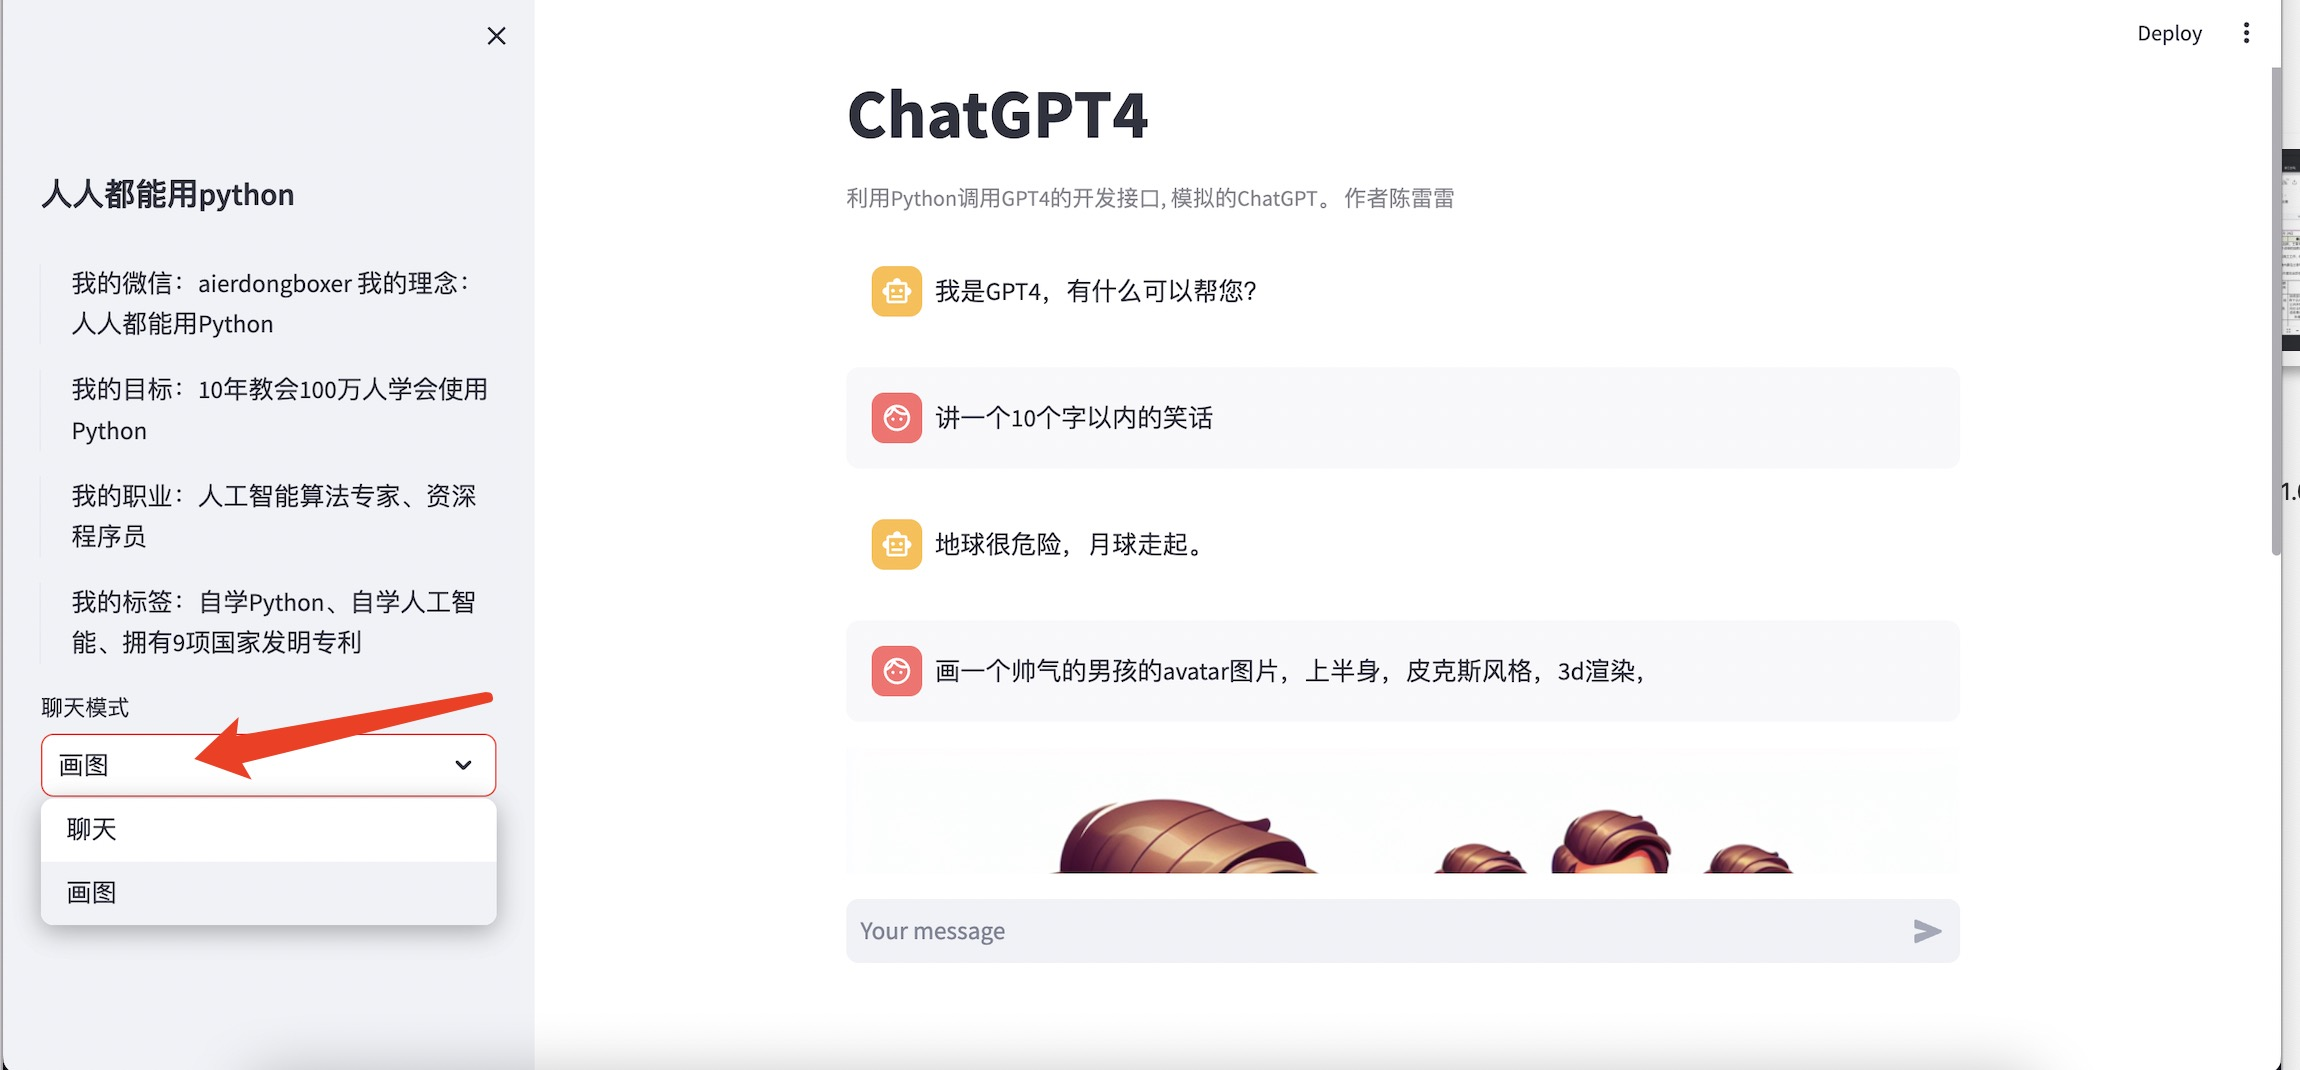
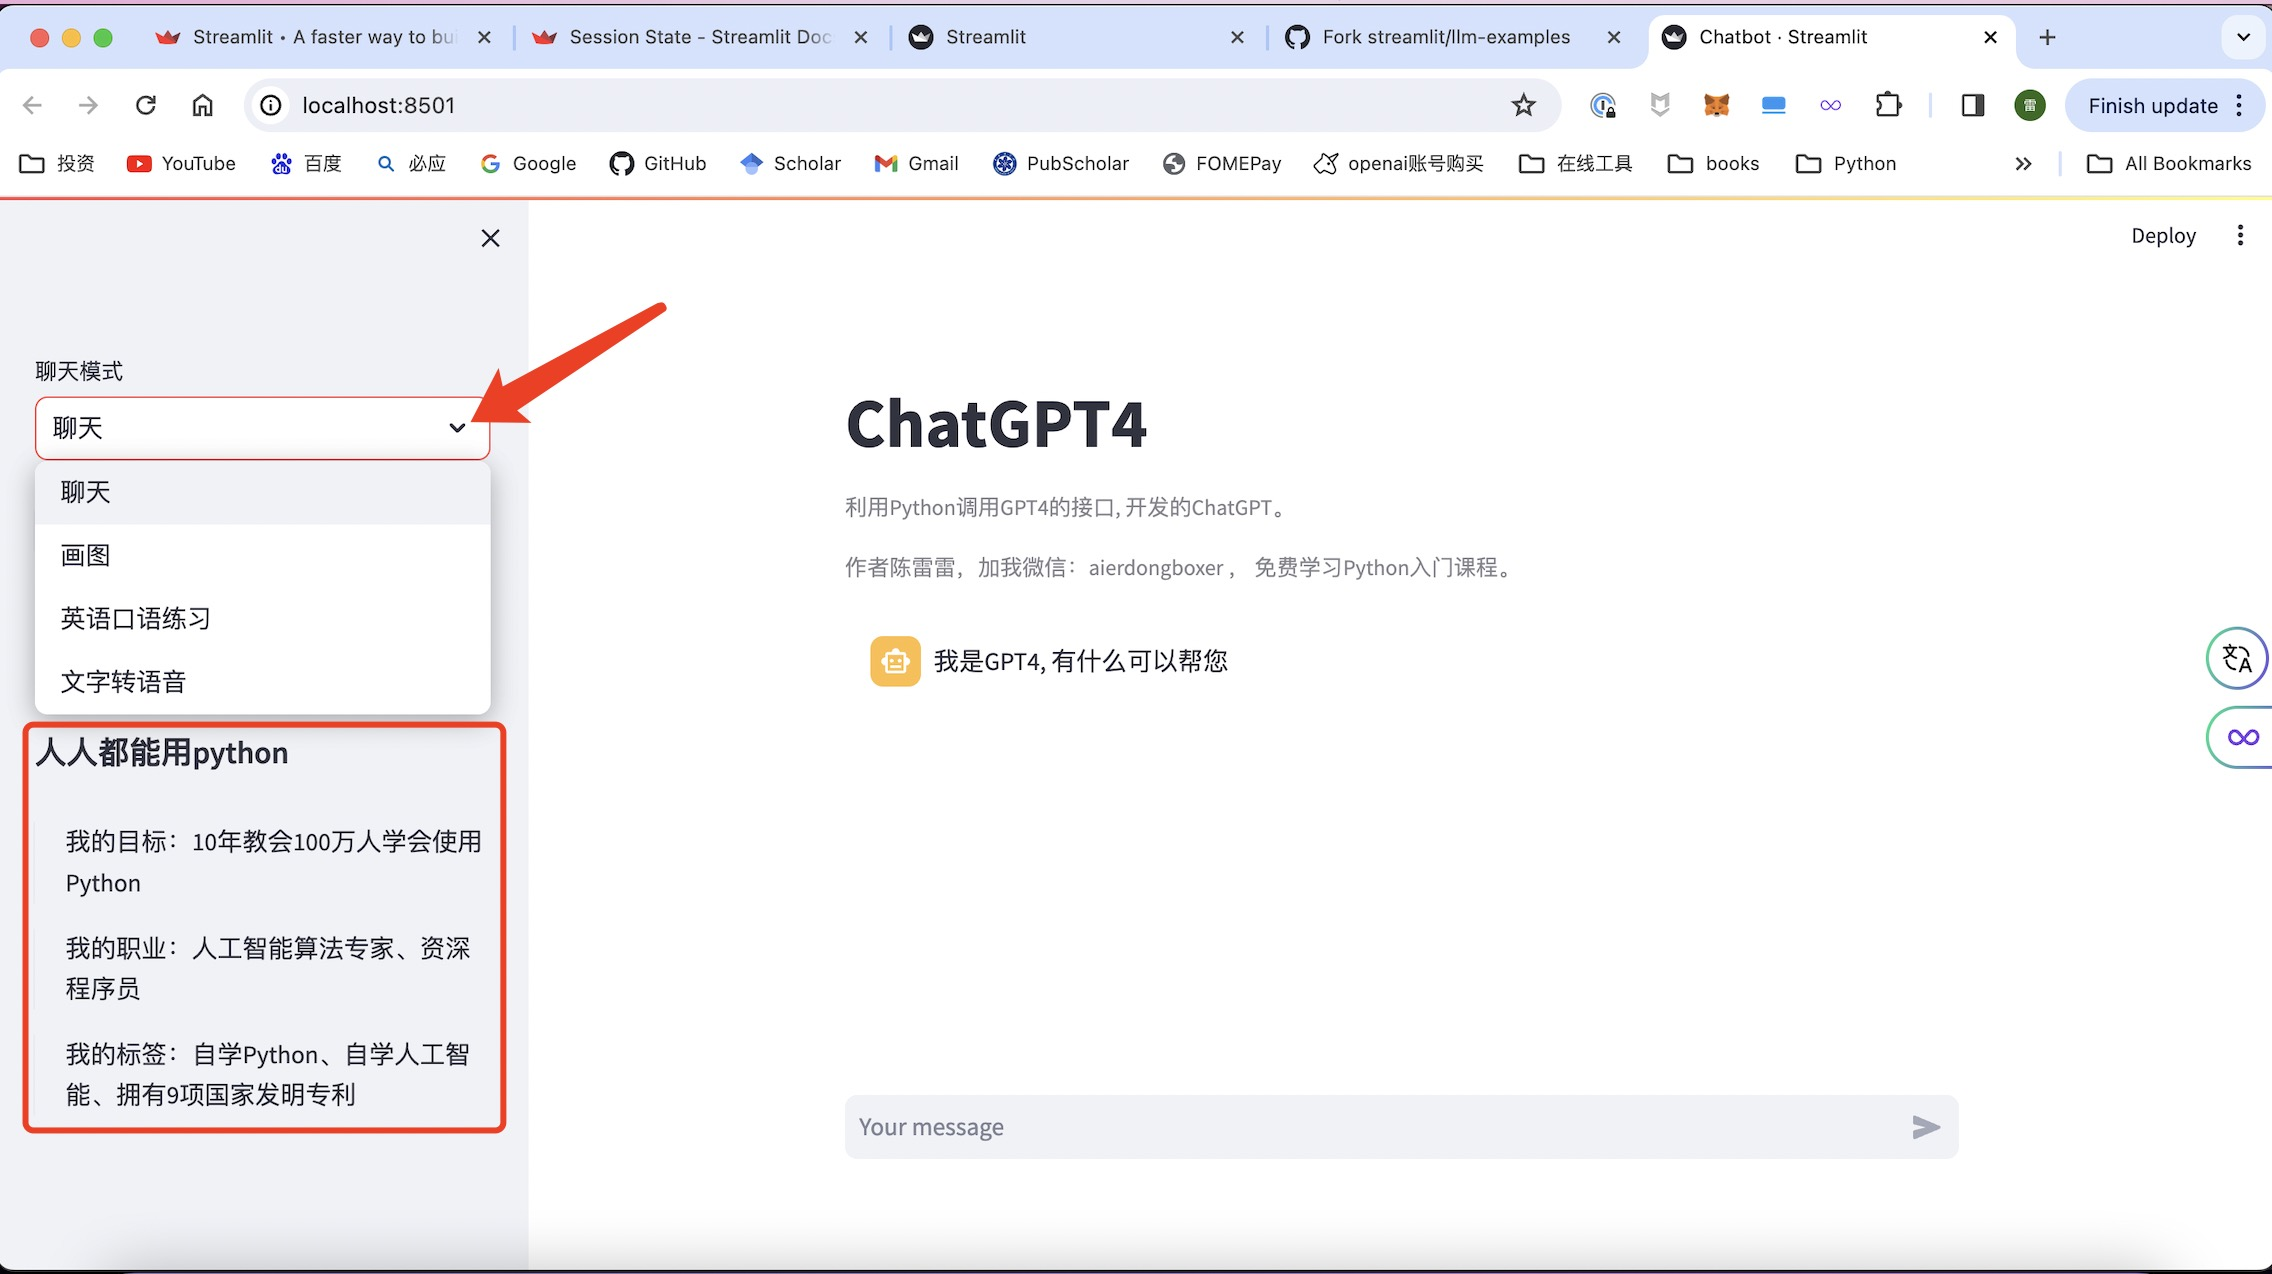
Add instructions for english_practice and text_to_speech and some images

diff --git a/utils/streamlit_app.py b/utils/streamlit_app.py
@@ -36,7 +36,10 @@ class StreamlitApp:
     def set_title(self):
         self.st.title("ChatGPT4")
         self.st.caption(
-            "利用Python调用GPT4的接口, 开发的ChatGPT。 \n\n作者陈雷雷，加我微信：aierdongboxer ， 免费学习Python入门课程。"
+            (
+                "利用Python调用GPT4的接口, 开发的ChatGPT。 \n\n"
+                "作者陈雷雷，加我微信：aierdongboxer ， 免费学习《零基础python入门课程》。"
+            )
         )
         return None
 
@@ -56,7 +59,6 @@ class StreamlitApp:
 
             if self.st.session_state.mode == "文字转语音":
                 self.options_for_english_practice()
-                print("文字转语音")
 
             self.st.write(introduction)
 

diff --git a/README.md b/README.md
@@ -26,10 +26,28 @@ pip install -r requirements.txt
 streamlit run Chatbot.py
 ```
 ## 使用方法
-![](assets/运行后的效果图.jpg)
+<img src="assets/运行后的效果图.jpg" alt="运行后的效果图" style="zoom:30%;" />
+
 ### 聊天模式
 页面左侧有聊天模式，选择聊天那么就是和GPT4进行纯文字聊天，选择画图则是使用DALLE模型进行画图
 ### 聊天
 在页面下方的输入框，输入你想和GPT4聊天的话，按回车按钮，就可以和GPT4聊天了。
 ### 画图
 在页面下方的输入框，输入你想生成的图片的描述，按回车按钮，就可以生成图片了。
+### 英语口语练习
+在页面下方的输入框，输入你想要练习的英文，按回车按钮，就会直接翻译成英文，并且会转换成语音。
+### 文字转语音
+在页面下方的输入框，输入文字各种语言都可以，按回车按钮，就会直转换成语音。
+
+## 我的微信
+扫码加我微信，一起交流学习python和人工智能
+<img src="assets/微信.jpg" alt="微信" style="zoom:20%;" />
+
+## 我的视频号
+扫码加我视频号，可以免费学习《python零基础入门课程》，并提供免费答疑。
+<img src="assets/视频号.jpg" alt="视频号" style="zoom:20%;" />
+
+## 买一杯咖啡
+如果觉得这个项目帮助到了你，你可以帮作者买一杯咖啡表示鼓励。
+<img src="assets/微信收款码.jpg" alt="微信收款码" style="zoom:20%;" />
+<img src="assets/支付宝收款码.jpg" alt="支付宝收款码" style="zoom:20%;" />
